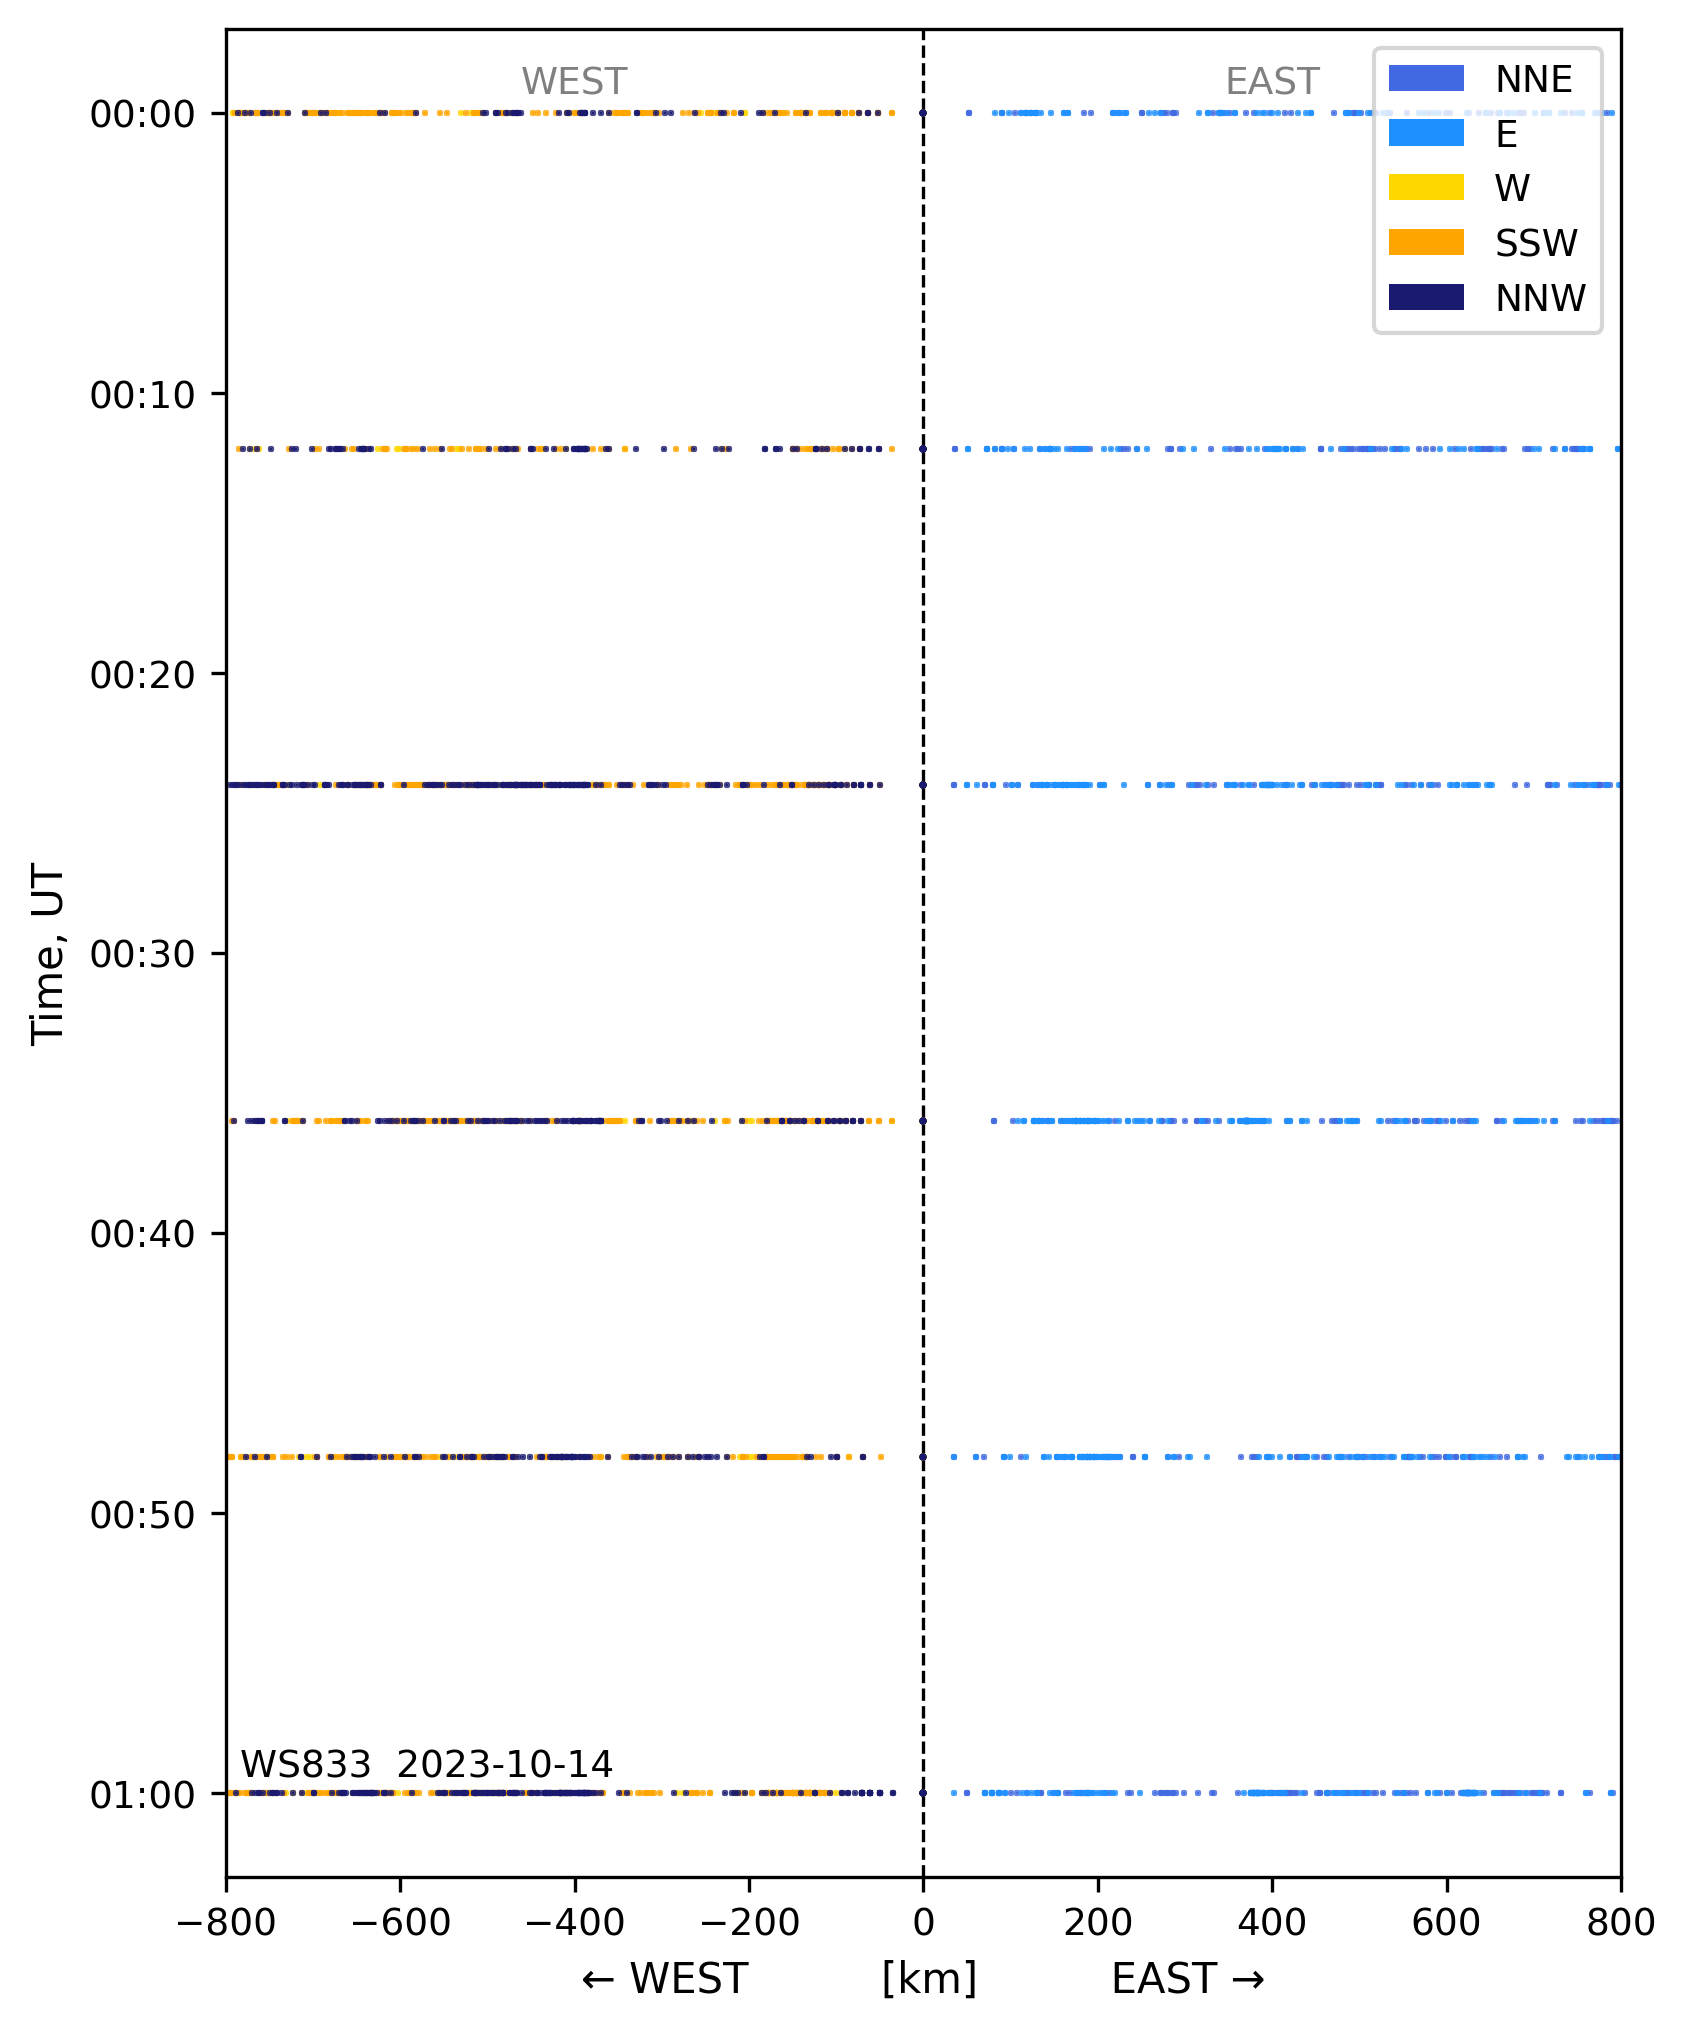
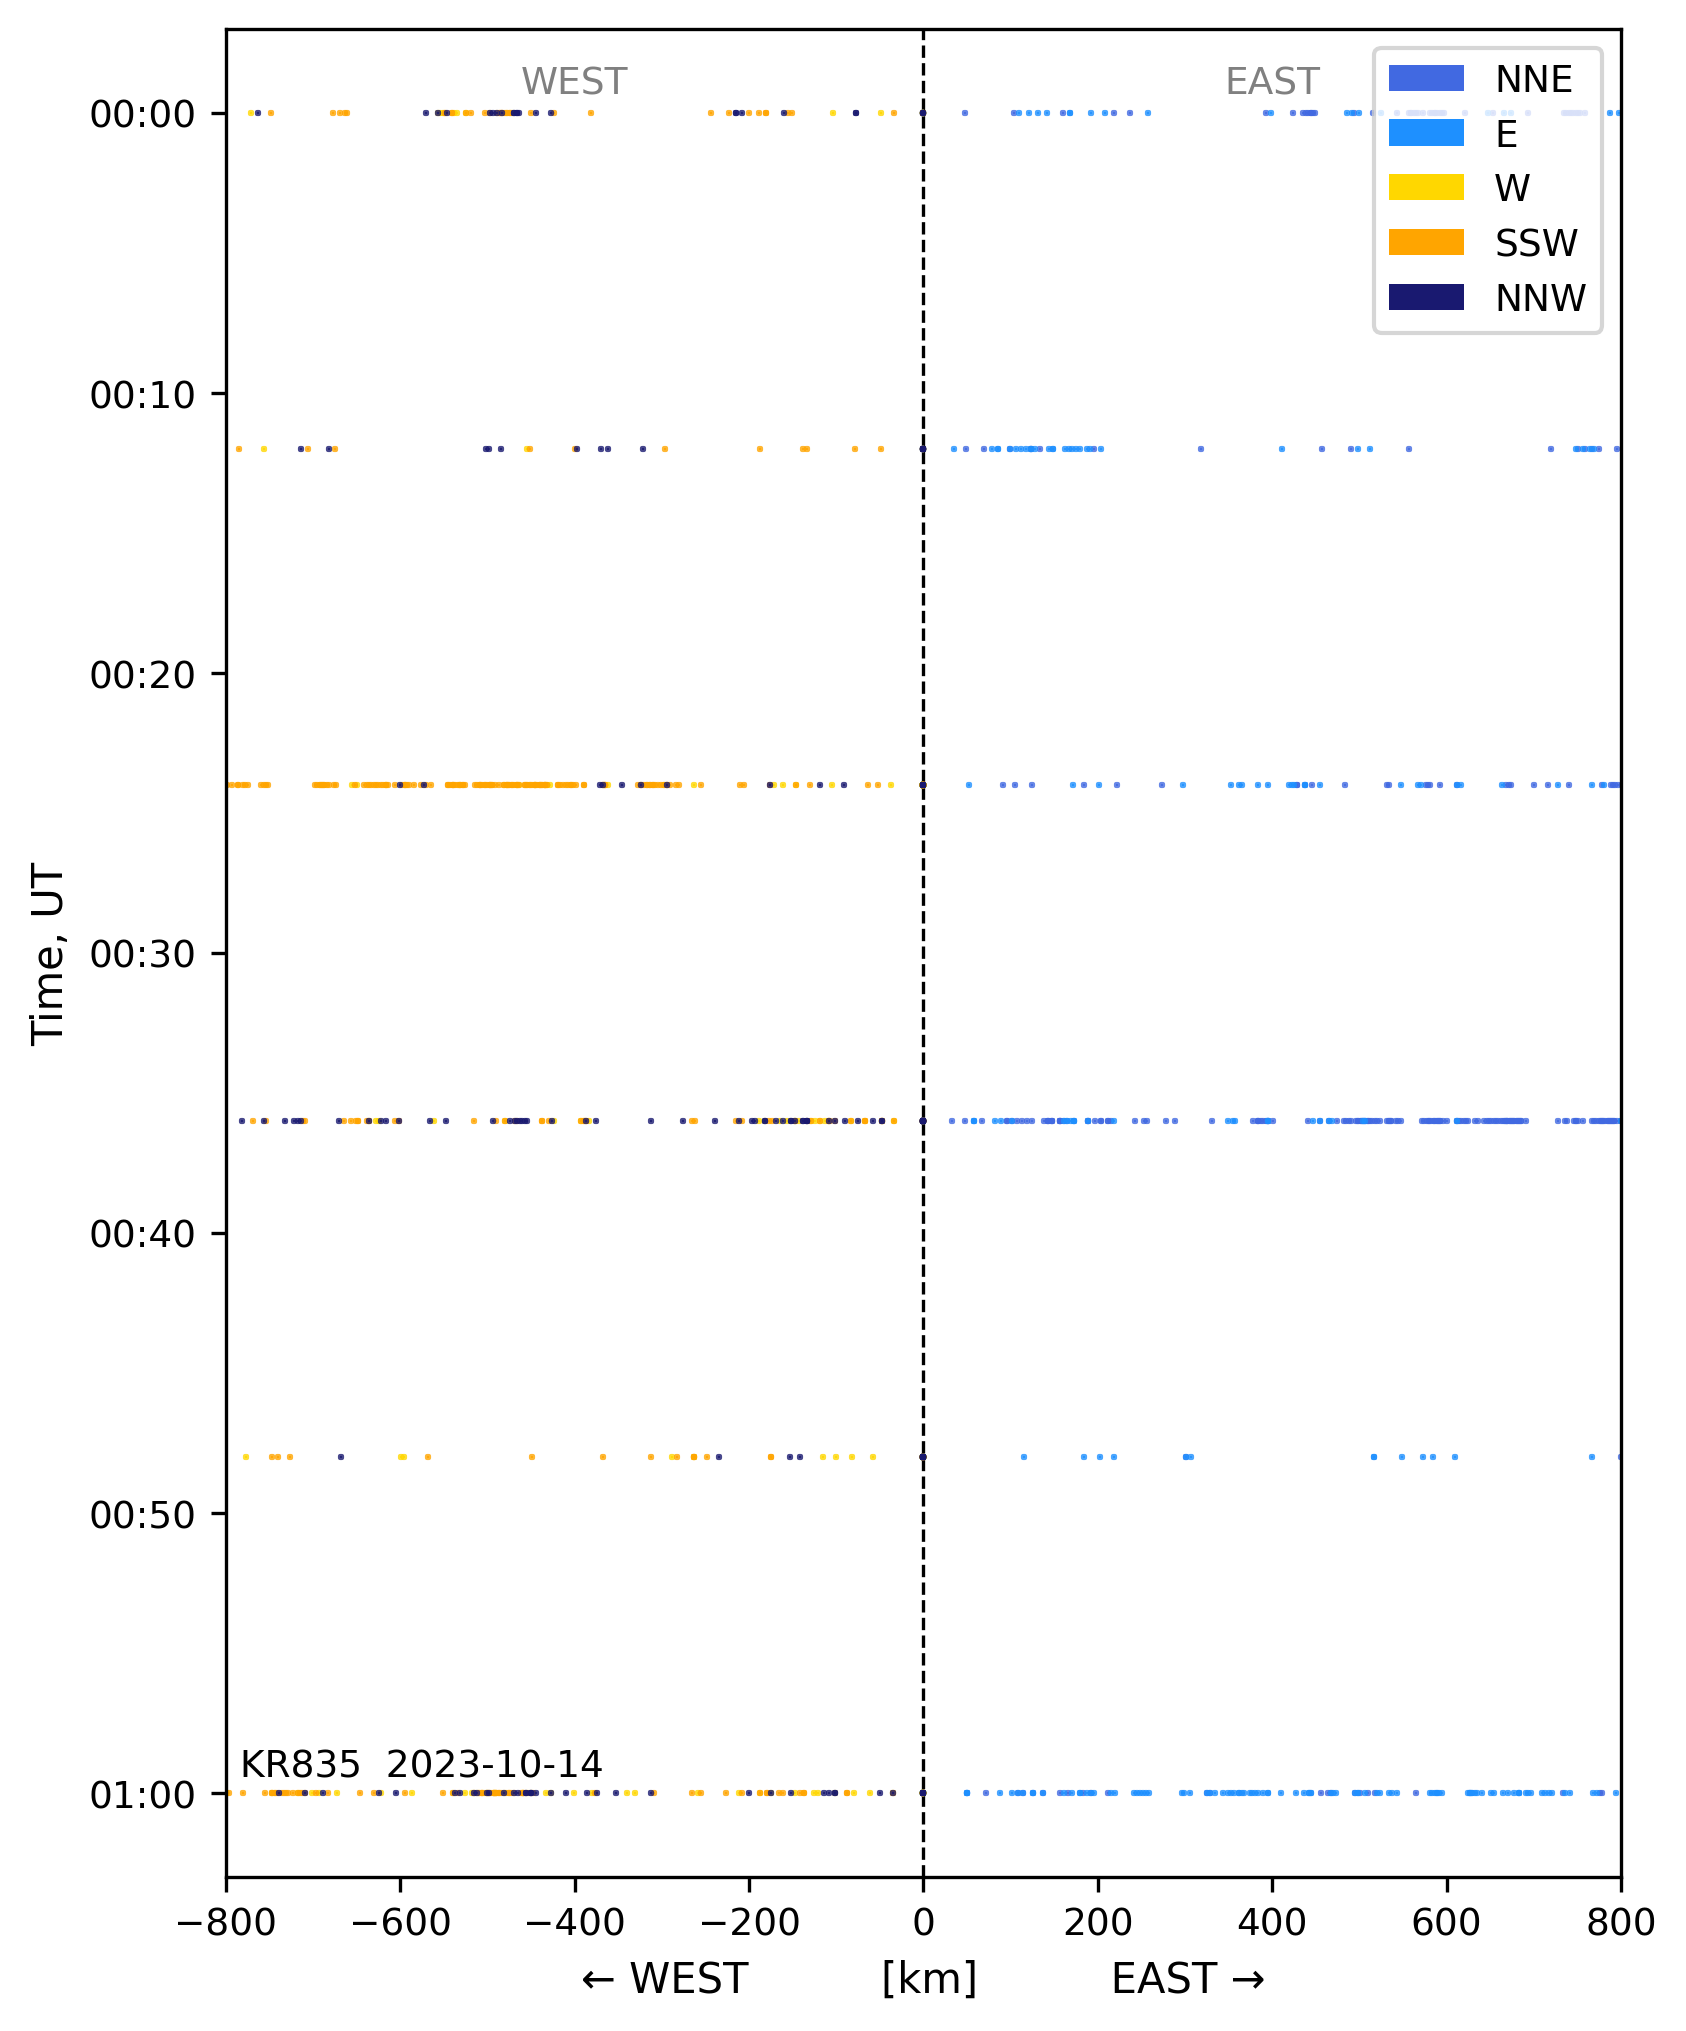
RSF direction example: portable paths, env config, docs and figures
- examples/digisonde/rsf_direction_ionogram.py: station and data directory
  come from RSF_EXAMPLE_STN / RSF_EXAMPLE_DIR (defaults: bundled WS833 files),
  no hardcoded personal paths; figure names follow the station; directogram
  title date comes from the data.
- Docs page updated to match the code (joblib, env vars, run instructions,
  bundled data); KR835 figures regenerated from the full-day dataset.
- digisonde extra gains joblib (used by the Digisonde examples); install page
  table updated.
- tests: smoke-run the example on the bundled data in a temp dir.

Verified: digisonde extra alone runs the example; strict docs build passes.

diff --git a/examples/digisonde/rsf_direction_ionogram.py b/examples/digisonde/rsf_direction_ionogram.py
@@ -1,4 +1,4 @@
-"""RSF direction ionogram and daily directogram for KR835.
+"""RSF direction ionogram and daily directogram.
 
 Produces two figures:
 1. Direction-coded ionogram  – single ionogram, frequency vs height,
@@ -6,9 +6,17 @@ Produces two figures:
 2. Daily directogram         – a memory-safe subset of RSF files stacked by time,
    X = ground distance D_i (km), Y = UT time (mimics Figure 3-12).
 
-Set ``RSF_EXAMPLE_MAX_FILES=0`` to process the full day, and tune
-``RSF_EXAMPLE_N_PROCS`` for local hardware. The default is intentionally
-small so the example runs in documentation and CI environments.
+By default the example runs on the bundled WS833 files in ``examples/data``.
+The figures in the documentation were made from a full KR835 day:
+
+    RSF_EXAMPLE_STN=KR835 RSF_EXAMPLE_DIR=/path/to/2023-10-14 \\
+        RSF_EXAMPLE_MAX_FILES=0 python examples/digisonde/rsf_direction_ionogram.py
+
+Environment variables: ``RSF_EXAMPLE_STN`` (station prefix), ``RSF_EXAMPLE_DIR``
+(directory with the ``.RSF`` files), ``RSF_EXAMPLE_MAX_FILES`` (``0`` = every
+file; default 6) and ``RSF_EXAMPLE_N_PROCS`` (parallel workers; default 1).
+The defaults are intentionally small so the example runs in documentation and
+CI environments.
 """
 
 import glob
@@ -21,15 +29,16 @@ from loguru import logger
 from pynasonde.digisonde.digi_plots import RsfIonogram
 from pynasonde.digisonde.parsers.rsf import RsfExtractor
 
-STN = "WS833"
-RSF_DIR = (
-    "/tmp/chakras4/Crucial X9/APEP/AFRL_Digisondes/"
-    "Digisonde Files/WSMR_DPS4D_2023_10_14/"
-)
-all_files = sorted(glob.glob(f"{RSF_DIR}/{STN}_*.RSF"))
-all_files.sort()
+STN = os.environ.get("RSF_EXAMPLE_STN", "WS833")
+RSF_DIR = os.environ.get("RSF_EXAMPLE_DIR", "examples/data")
+all_files = sorted(glob.glob(os.path.join(RSF_DIR, f"{STN}_*.RSF")))
 if not all_files:
-    raise FileNotFoundError(f"No RSF files found under {RSF_DIR!r}")
+    raise FileNotFoundError(
+        f"No {STN}_*.RSF files found under {RSF_DIR!r}; "
+        "set RSF_EXAMPLE_DIR and RSF_EXAMPLE_STN"
+    )
+os.makedirs("tmp", exist_ok=True)
+os.makedirs("docs/examples/figures", exist_ok=True)
 RSF_ONE = all_files[0]
 
 # ── 1. Single ionogram: direction-coded plot ─────────────────────────────────
@@ -52,8 +61,8 @@ r.add_direction_ionogram(
     lower_plimit=5,
     ms=1.0,
 )
-r.save("tmp/rsf_direction_ionogram_KR835.png")
-r.save("docs/examples/figures/rsf_direction_ionogram_KR835.png")
+r.save(f"tmp/rsf_direction_ionogram_{STN}.png")
+r.save(f"docs/examples/figures/rsf_direction_ionogram_{STN}.png")
 r.close()
 
 # ── 2. Daily directogram: all RSF files for the day ─────────────────────────
@@ -92,8 +101,8 @@ r.add_directogram(
     dlim=[-800, 800],
     lower_plimit=10,
     ms=0.5,
-    text=f"{STN}  2023-10-14",
+    text=f"{STN}  {h.date.strftime('%Y-%m-%d')}",
 )
-r.save("tmp/rsf_directogram_KR835_daily.png")
-r.save("docs/examples/figures/rsf_directogram_KR835_daily.png")
+r.save(f"tmp/rsf_directogram_{STN}_daily.png")
+r.save(f"docs/examples/figures/rsf_directogram_{STN}_daily.png")
 r.close()

diff --git a/tests/test_examples_smoke.py b/tests/test_examples_smoke.py
@@ -35,3 +35,27 @@ def test_rsf_scaler_example_runs(monkeypatch, tmp_path):
     assert (
         tmp_path / "docs" / "examples" / "figures" / "rsf_scaler_viterbi.png"
     ).stat().st_size > 0
+
+
+@pytest.mark.skipif(
+    not list(DATA_DIR.glob("WS833_*.RSF")), reason="Sample RSF files not available"
+)
+def test_rsf_direction_ionogram_example_runs(monkeypatch, tmp_path):
+    """Run examples/digisonde/rsf_direction_ionogram.py on the bundled WS833 files."""
+    pytest.importorskip("joblib", reason="needs pynasonde[digisonde]")
+    pytest.importorskip("matplotlib")
+
+    (tmp_path / "examples").mkdir()
+    (tmp_path / "examples" / "data").symlink_to(DATA_DIR, target_is_directory=True)
+    monkeypatch.chdir(tmp_path)
+    monkeypatch.delenv("RSF_EXAMPLE_STN", raising=False)
+    monkeypatch.delenv("RSF_EXAMPLE_DIR", raising=False)
+
+    runpy.run_path(
+        str(PROJECT_ROOT / "examples/digisonde/rsf_direction_ionogram.py"),
+        run_name="__main__",
+    )
+
+    figs = tmp_path / "docs" / "examples" / "figures"
+    for name in ("rsf_direction_ionogram_WS833.png", "rsf_directogram_WS833_daily.png"):
+        assert (figs / name).stat().st_size > 0

diff --git a/docs/examples/digisonde/rsf_direction_ionogram.md b/docs/examples/digisonde/rsf_direction_ionogram.md
@@ -12,7 +12,32 @@
 
 This page explains `examples/digisonde/rsf_direction_ionogram.py`.
 
-Data used: KR835 (Kirtland AFB), 14 October 2023, 480 RSF files.
+Data used: the figures on this page were made from KR835 (Kirtland AFB),
+14 October 2023, 480 RSF files. The repository bundles two small WS833 RSF
+files in `examples/data`, so the script also runs out of the box (it writes
+`rsf_direction_ionogram_WS833.png` and `rsf_directogram_WS833_daily.png`).
+
+!!! note "Install"
+    `pip install "pynasonde[digisonde]"` (includes `joblib` for parallel loading).
+
+## Run
+
+```bash
+# bundled WS833 files (quick)
+python examples/digisonde/rsf_direction_ionogram.py
+
+# reproduce the KR835 figures from a full day of RSF files
+RSF_EXAMPLE_STN=KR835 RSF_EXAMPLE_DIR=/path/to/2023-10-14 \
+    RSF_EXAMPLE_MAX_FILES=0 RSF_EXAMPLE_N_PROCS=8 \
+    python examples/digisonde/rsf_direction_ionogram.py
+```
+
+| Variable | Default | Meaning |
+|----------|---------|---------|
+| `RSF_EXAMPLE_STN` | `WS833` | Station prefix of the `.RSF` files |
+| `RSF_EXAMPLE_DIR` | `examples/data` | Directory containing the files |
+| `RSF_EXAMPLE_MAX_FILES` | `6` | Files used for the directogram (`0` = all, every 4th file) |
+| `RSF_EXAMPLE_N_PROCS` | `1` | Parallel workers |
 
 ## Call Flow
 
@@ -29,12 +54,12 @@ Data used: KR835 (Kirtland AFB), 14 October 2023, 480 RSF files.
 
 ### Daily directogram
 
-1. `glob.glob("KR835_*.RSF")` collects all RSF files for the day.
+1. `glob.glob("<STN>_*.RSF")` collects the RSF files for the day (every 4th file, up to `RSF_EXAMPLE_MAX_FILES`).
 2. A module-level `_load_rsf` worker parses each file with `RsfExtractor`; failed
    files are skipped with a warning rather than aborting the run.
-3. `multiprocessing.Pool.map` fans the worker across all files in parallel
-   (`N_PROCS = 8`), then failed results (`None`) are filtered out before
-   `pd.concat`.
+3. `joblib.Parallel(..., backend="loky")` fans the worker across the files
+   (`RSF_EXAMPLE_N_PROCS` workers), then failed results (`None`) are filtered out
+   before `pd.concat`.
 4. `RsfIonogram.add_directogram(...)` groups echoes by ionogram timestamp, computes
    the vertical reference height H_v from peak vertical echoes, and derives
    ground distance D_i = √(H_i² − H_v²) with sign negative for westward arrivals.

diff --git a/docs/user/install.md b/docs/user/install.md
@@ -47,8 +47,8 @@ The core install has only `numpy`, `pandas`, `matplotlib`, `loguru`, `toml` and
 
 | Extra | Adds | Use it for |
 |-------|------|------------|
-| `digisonde` | `lxml`, `scipy`, `xarray`, `netCDF4`, `pytz`, `timezonefinder` | SAO, RSF, SBF, MMM, DFT, DVL, SKY, EDP, CADI and raw IQ parsers and plots |
-| `digisonde-scaler` | `digisonde` + `scikit-learn`, `joblib` | Digisonde autoscaler (`pynasonde.digisonde.scaler`) |
+| `digisonde` | `lxml`, `scipy`, `xarray`, `netCDF4`, `pytz`, `timezonefinder`, `joblib` | SAO, RSF, SBF, MMM, DFT, DVL, SKY, EDP, CADI and raw IQ parsers and plots |
+| `digisonde-scaler` | `digisonde` + `scikit-learn` | Digisonde autoscaler (`pynasonde.digisonde.scaler`) |
 | `digisonde-db` | `digisonde` + `fdb` | DIDBase (Firebird) connector |
 | `ocr` | `opencv-python-headless`, `pytesseract` | Ionogram image parser (also needs the `tesseract` system package) |
 | `vipir` | `scipy`, `xarray`, `netCDF4`, `pytz`, `timezonefinder`, `pysolar`, `joblib`, `scikit-learn`, `scikit-image`, `opencv-python-headless` | VIPIR NGI and RIQ readers and tools |
